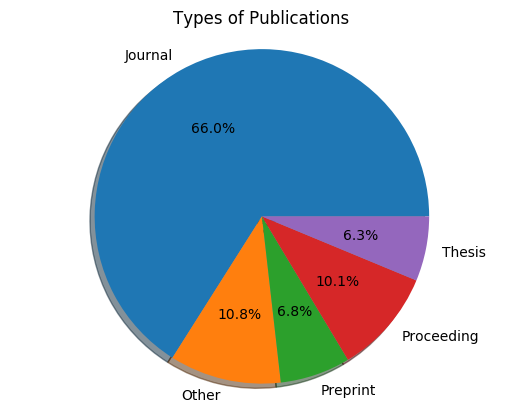
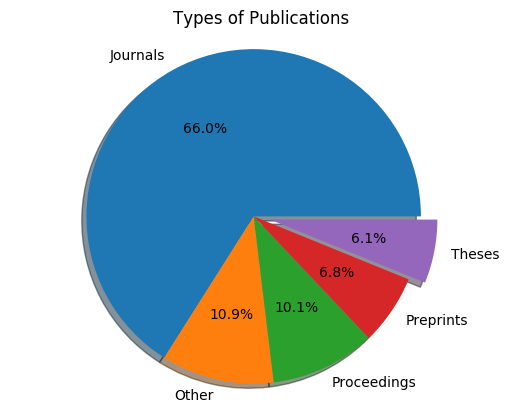
New stats

diff --git a/biblio_reader/scholar_reader.py b/biblio_reader/scholar_reader.py
@@ -1,5 +1,4 @@
 import pandas as pd, matplotlib.pyplot as plt, manager as mg, os, datetime, collections, numpy as np, re
-import matplotlib.colors as colors
 from titlecase import titlecase
 STAT_DIR = mg.dir(os.path.join(mg.OUTPUT_PATH, 'stats'))
 data = mg.get_data()
@@ -8,23 +7,22 @@ data = mg.get_data()
 def count_visualizer(value_count, stat_type, name, row_limit=None, color=None):
     """
     Counts values of specific columns in dataframe
-    :param value_count: A value count series, dict, or LOT (see pandas value_count function)
+    :param value_count: A value counts series, dict, or LOT (see pandas value_count function)
     :param out: output file name
     :param stat_type: one of: bar, barh, pie
     :param row_limit: Sets a limit to how many highest values should be counted
     :return: csv, bar, or pie file
     """
-    value_count = {titlecase(value).replace('Ieee', 'IEEE').replace('Jama', 'JAMA'): count for value, count in list(dict(value_count).items())[:row_limit]}
+    value_count = {titlecase(str(value)): count for value, count in list(dict(value_count).items())[:row_limit]}
     plt.figure()
     if stat_type == 'bar':
         plt.bar(range(len(value_count)), list(value_count.values()), align='center', color=color)
-        plt.xticks(range(len(value_count)), value_count.keys(), rotation=90)
+        plt.xticks(range(len(value_count)), value_count.keys())
     elif stat_type == 'barh':
         plt.barh(range(len(value_count)), list(value_count.values()), align='center', tick_label=value_count.keys(),
                  color=color)
-        plt.xlabel('Number of Publications')
     elif stat_type == 'pie':
-        plt.pie(list(value_count.values()), labels=value_count.keys(), autopct='%1.1f%%', shadow=True, color=color)
+        plt.pie(list(value_count.values()), labels=value_count.keys(), autopct='%1.1f%%', shadow=True)
         plt.axis('equal')
     else:
         raise IOError('Invalid stat type')
@@ -54,7 +52,7 @@ def journal_impacts(data):
     return reversed(list(collections.Counter(journals).items())[:15])
 
 
-count_visualizer(journal_impacts(data[data['Data Use'] == 'Y']), 'barh', 'Number of Publications in High Impact Journals')
+
 
 def stacked_data(data, column, stacker, stack_type, stat, split=None, stacker_split=False):
     """
@@ -112,8 +110,10 @@ def stacked_data(data, column, stacker, stack_type, stat, split=None, stacker_sp
                     plot_dict[key].append(value)
                 else:
                     plot_dict[key] = [value]
+        marker = 0
         for stack, plot in plot_dict.items():
-            plt.plot(plot, label=stack)
+            plt.plot(plot, label=stack, marker=marker)
+            marker += 1
         plt.xticks(range(len(stacker)), stacker)
     elif stat == 'cluster':
         curr_width = 0
@@ -129,7 +129,9 @@ def stacked_data(data, column, stacker, stack_type, stat, split=None, stacker_sp
     plt.title(title)
     plt.savefig(os.path.join(STAT_DIR, '_'.join([title.lower().replace(' ', '_'), stat]) + '.png'), bbox_inches='tight')
 
-#count_visualizer(data[data['Data Use'] == 'Y']['Journal Category'].value_counts(), 'pie', 'Types of Publications')
+data = data[data['Data Use'] == 'Y']
+
+
 def count_sets(data):
     """
     Takes the terms that Google Scholar matched for all the publications and counts how many of each there are
@@ -141,6 +143,7 @@ def count_sets(data):
     sets = [dset for dsets in data['Sets'].dropna() for dset in dsets.split(';')]
     return pd.Series(collections.Counter(sets), name='Sets')
 
+stacked_data(data[data['Year'] != "'17"], 'Sets', ["'" + str(x)[2:] for x in range(2010, 2017)], 'Year', 'plot', split=';')
 
 def categorize_journals(data, categories):
     """
@@ -173,7 +176,6 @@ def categorize_journals(data, categories):
     res.update({i: 'Unknown' for i in range(len(data)) if i not in res})
     return {i: typ for i, typ in sorted(res.items())}
 
-#print(*categorize_journals(data, mg.dir(os.path.join(mg.INPUT_PATH, 'journal_categories'))).items(), sep='\n')
 
 def authors(data, link, split=None):
     """

diff --git a/table/data_mg.py b/table/data_mg.py
@@ -1,6 +1,6 @@
 import manager as mg
 
 data = mg.get_data()
-data = data[data['Data Use'] == 'Y'][data['Journal Category'] == 'Thesis']
+data = data[data['Data Use'] == 'Y'][data['Journal Category'] == 'Proceeding']
 table_data = data[['Title', 'Authors', 'Year', 'URL']].sort_values(['Year', 'Title'])
 table_data.to_csv(path_or_buf='Table_data.csv', index=False)
